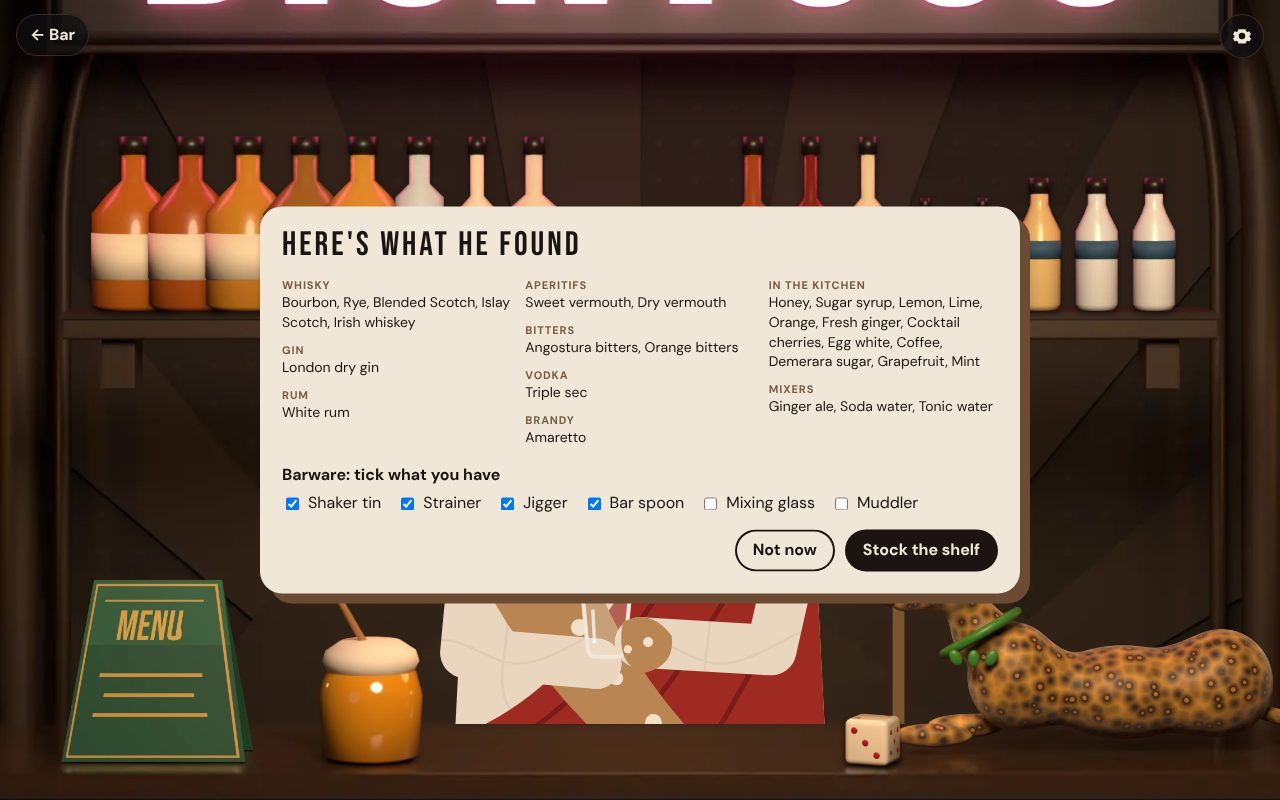
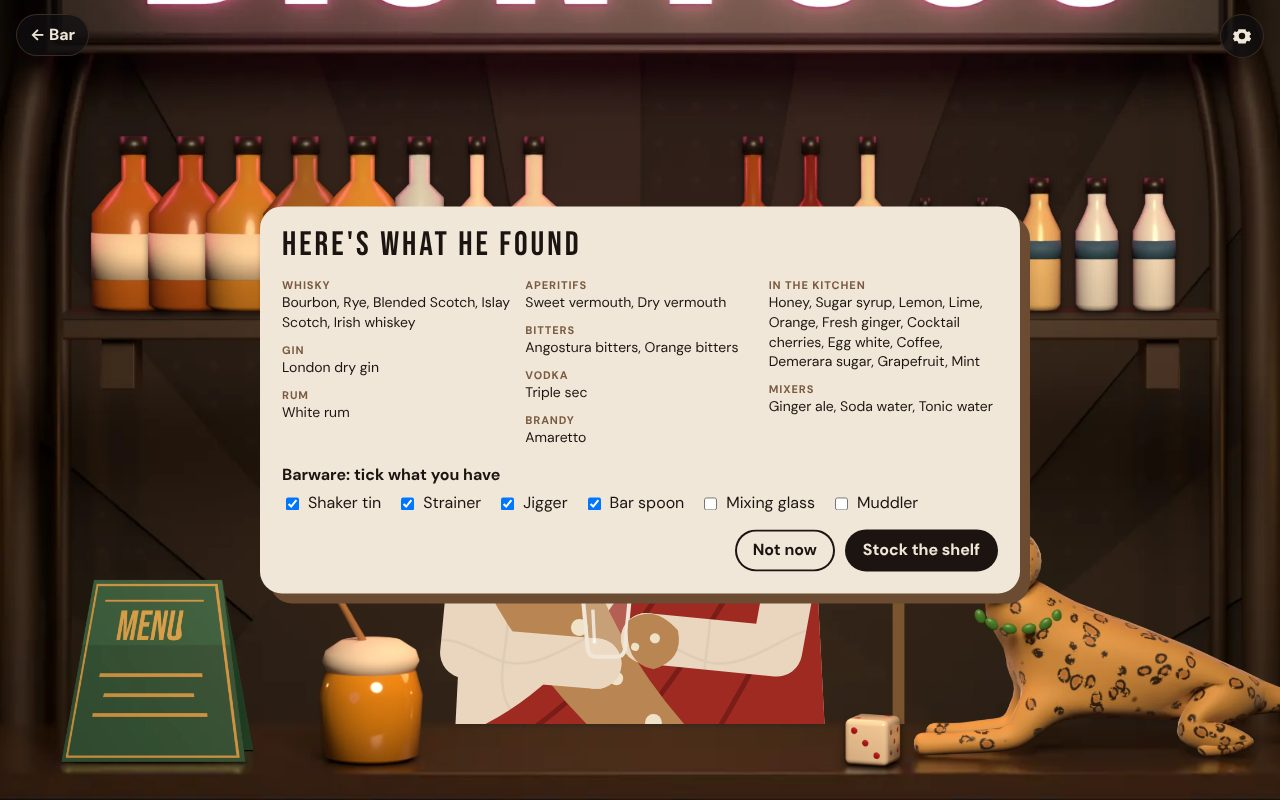
Prototype E: rebuild the panther from a skeleton
The metaball panther read as a lumpy blob with floating ears and a
collar hanging in mid-air. It is now a skin-modifier skeleton (spine,
neck, legs, tail) smoothed by subdivision, lying sphinx-style with its
head turned to the viewer, broken rosettes instead of polka dots and an
ivy collar on the neck. `--only panther` renders a large preview to
check it before it goes into the bar. Backgrounds re-rendered so the
counter shadow matches; phone framing shifted to keep the tail in frame.

Claude-Session: https://claude.ai/code/session_017R8H9jsNoJy3aWtoVCdhDN

diff --git a/prototypes/e-rendered/layers.js b/prototypes/e-rendered/layers.js
@@ -68,10 +68,10 @@ const LAYERS = {
   },
   "panther": {
    "src": "img/touch-panther.webp",
-   "x": 943.67,
-   "y": 513.5,
-   "w": 304.0,
-   "h": 131.33
+   "x": 961.57,
+   "y": 503.37,
+   "w": 306.0,
+   "h": 147.0
   }
  },
  "bottles": {
@@ -359,4 +359,4 @@ const LAYERS = {
   "quick": false
  }
 };
-const RENDER_LOG = [{"layer": "bg_bar", "px": [2000, 2000], "samples": 64, "seconds": 123.9}, {"layer": "bg_sign", "px": [1480, 460], "samples": 64, "seconds": 29.2}, {"layer": "bg_shelf", "px": [1672, 1065], "samples": 64, "seconds": 77.0}, {"layer": "bg_mid", "px": [2222, 1232], "samples": 64, "seconds": 106.6}, {"layer": "bg_menu", "px": [1380, 1080], "samples": 48, "seconds": 48.6}, {"layer": "bg_sign_off", "px": [1480, 460], "samples": 64, "seconds": 22.3}, {"layer": "t_menu", "px": [851, 835], "samples": 64, "seconds": 14.1}, {"layer": "t_honey", "px": [376, 547], "samples": 64, "seconds": 4.2}, {"layer": "t_dice", "px": [312, 302], "samples": 64, "seconds": 1.9}, {"layer": "t_panther", "px": [995, 485], "samples": 64, "seconds": 8.7}, {"layer": "b_bourbon", "px": [164, 303], "samples": 32, "seconds": 0.8}, {"layer": "b_rye", "px": [164, 303], "samples": 32, "seconds": 0.7}, {"layer": "b_blended_scotch", "px": [164, 303], "samples": 32, "seconds": 0.7}, {"layer": "b_islay_scotch", "px": [164, 303], "samples": 32, "seconds": 0.7}, {"layer": "b_irish_whiskey", "px": [164, 303], "samples": 32, "seconds": 0.7}, {"layer": "b_london_dry_gin", "px": [109, 301], "samples": 32, "seconds": 0.5}, {"layer": "b_white_rum", "px": [148, 302], "samples": 32, "seconds": 0.6}, {"layer": "b_tequila", "px": [126, 302], "samples": 32, "seconds": 0.6}, {"layer": "b_vodka", "px": [99, 301], "samples": 32, "seconds": 0.4}, {"layer": "b_cognac", "px": [168, 303], "samples": 32, "seconds": 0.6}, {"layer": "b_sweet_vermouth", "px": [120, 301], "samples": 32, "seconds": 0.5}, {"layer": "b_dry_vermouth", "px": [120, 301], "samples": 32, "seconds": 0.5}, {"layer": "b_campari", "px": [120, 301], "samples": 32, "seconds": 0.5}, {"layer": "b_aperol", "px": [120, 301], "samples": 32, "seconds": 0.5}, {"layer": "b_amaro_nonino", "px": [120, 301], "samples": 32, "seconds": 0.5}, {"layer": "b_triple_sec", "px": [99, 301], "samples": 32, "seconds": 0.4}, {"layer": "b_amaretto", "px": [168, 303], "samples": 32, "seconds": 0.7}, {"layer": "b_cherry_heering", "px": [168, 303], "samples": 32, "seconds": 0.7}, {"layer": "b_ginger_wine", "px": [120, 301], "samples": 32, "seconds": 0.5}, {"layer": "b_coffee_liqueur", "px": [148, 302], "samples": 32, "seconds": 0.6}, {"layer": "b_angostura_bitters", "px": [101, 206], "samples": 32, "seconds": 0.3}, {"layer": "b_orange_bitters", "px": [101, 206], "samples": 32, "seconds": 0.3}, {"layer": "b_ginger_ale", "px": [99, 237], "samples": 32, "seconds": 0.4}, {"layer": "b_ginger_beer", "px": [99, 237], "samples": 32, "seconds": 0.4}, {"layer": "b_soda_water", "px": [99, 237], "samples": 32, "seconds": 0.4}, {"layer": "b_tonic_water", "px": [99, 237], "samples": 32, "seconds": 0.4}];
+const RENDER_LOG = [{"layer": "b_bourbon", "px": [164, 303], "samples": 32, "seconds": 0.8}, {"layer": "b_rye", "px": [164, 303], "samples": 32, "seconds": 0.7}, {"layer": "b_blended_scotch", "px": [164, 303], "samples": 32, "seconds": 0.7}, {"layer": "b_islay_scotch", "px": [164, 303], "samples": 32, "seconds": 0.7}, {"layer": "b_irish_whiskey", "px": [164, 303], "samples": 32, "seconds": 0.7}, {"layer": "b_london_dry_gin", "px": [109, 301], "samples": 32, "seconds": 0.5}, {"layer": "b_white_rum", "px": [148, 302], "samples": 32, "seconds": 0.6}, {"layer": "b_tequila", "px": [126, 302], "samples": 32, "seconds": 0.6}, {"layer": "b_vodka", "px": [99, 301], "samples": 32, "seconds": 0.4}, {"layer": "b_cognac", "px": [168, 303], "samples": 32, "seconds": 0.6}, {"layer": "b_sweet_vermouth", "px": [120, 301], "samples": 32, "seconds": 0.5}, {"layer": "b_dry_vermouth", "px": [120, 301], "samples": 32, "seconds": 0.5}, {"layer": "b_campari", "px": [120, 301], "samples": 32, "seconds": 0.5}, {"layer": "b_aperol", "px": [120, 301], "samples": 32, "seconds": 0.5}, {"layer": "b_amaro_nonino", "px": [120, 301], "samples": 32, "seconds": 0.5}, {"layer": "b_triple_sec", "px": [99, 301], "samples": 32, "seconds": 0.4}, {"layer": "b_amaretto", "px": [168, 303], "samples": 32, "seconds": 0.7}, {"layer": "b_cherry_heering", "px": [168, 303], "samples": 32, "seconds": 0.7}, {"layer": "b_ginger_wine", "px": [120, 301], "samples": 32, "seconds": 0.5}, {"layer": "b_coffee_liqueur", "px": [148, 302], "samples": 32, "seconds": 0.6}, {"layer": "b_angostura_bitters", "px": [101, 206], "samples": 32, "seconds": 0.3}, {"layer": "b_orange_bitters", "px": [101, 206], "samples": 32, "seconds": 0.3}, {"layer": "b_ginger_ale", "px": [99, 237], "samples": 32, "seconds": 0.4}, {"layer": "b_ginger_beer", "px": [99, 237], "samples": 32, "seconds": 0.4}, {"layer": "b_soda_water", "px": [99, 237], "samples": 32, "seconds": 0.4}, {"layer": "b_tonic_water", "px": [99, 237], "samples": 32, "seconds": 0.4}, {"layer": "panther_preview", "px": [1731, 911], "samples": 48, "seconds": 20.0}, {"layer": "t_menu", "px": [851, 835], "samples": 64, "seconds": 13.1}, {"layer": "t_honey", "px": [376, 547], "samples": 64, "seconds": 4.1}, {"layer": "t_dice", "px": [312, 302], "samples": 64, "seconds": 1.8}, {"layer": "t_panther", "px": [1039, 547], "samples": 64, "seconds": 9.7}, {"layer": "bg_bar", "px": [2000, 2000], "samples": 64, "seconds": 121.8}, {"layer": "bg_sign", "px": [1480, 460], "samples": 64, "seconds": 29.0}, {"layer": "bg_shelf", "px": [1672, 1065], "samples": 64, "seconds": 75.2}, {"layer": "bg_mid", "px": [2222, 1232], "samples": 64, "seconds": 104.6}, {"layer": "bg_menu", "px": [1380, 1080], "samples": 48, "seconds": 46.7}, {"layer": "bg_sign_off", "px": [1480, 460], "samples": 64, "seconds": 20.5}];

diff --git a/prototypes/e-rendered/app.js b/prototypes/e-rendered/app.js
@@ -59,7 +59,7 @@ drawShelf();
 const MENU_R = LAYERS.touch.menu;
 const SHOTS = {
   intro: { L: [440, 40, 720, 200], P: [452, 40, 696, 200] },
-  home: { L: [160, 20, 1280, 800], P: [425, -60, 830, 1250] },
+  home: { L: [160, 20, 1280, 800], P: [446, -60, 830, 1250] },
   menu: { L: [MENU_R.x - 30, MENU_R.y - 14, MENU_R.w + 60, MENU_R.h + 28], P: [MENU_R.x - 8, MENU_R.y - 6, MENU_R.w + 16, MENU_R.h + 12] },
   shelf: { L: [420, 200, 760, 475], P: [440, 180, 720, 400] },
   talk: { L: [470, 300, 800, 430], P: [600, 300, 400, 420] },

diff --git a/prototypes/e-rendered/blender/build_bar.py b/prototypes/e-rendered/blender/build_bar.py
@@ -41,6 +41,7 @@ FONT = os.path.join(HERE, 'fonts', 'BebasNeue-Regular.ttf')
 args = sys.argv[1:]
 QUICK = '--quick' in args
 ONLY = args[args.index('--only') + 1] if '--only' in args else 'all'
+PREVIEW = ONLY == 'panther'
 os.makedirs(OUT, exist_ok=True); os.makedirs(WORK, exist_ok=True)
 
 # ---------------------------------------------------------------- camera and the world-unit mapping
@@ -373,31 +374,52 @@ M_TWINE = mat('twine', '#a3172a', 0.6)
 M_DIPPER = mat('dipper', '#b98552', 0.5)
 M_IVORY = mat('ivory', '#f3ead6', 0.25, coat=0.6)
 M_PIP = mat('pip', '#b3172a', 0.3)
-M_EYE = mat('eye', '#9be05a', 0.2, emit='#9be05a', emit_strength=3)
+M_EYE = mat('eye', '#b8d84a', 0.15, coat=1.0, emit='#a8c83a', emit_strength=0.8)
 M_NOSE = mat('nose', '#3a2a2e', 0.4)
 M_IVY = mat('ivy', '#3f8a34', 0.4)
 
 
-def leopard_material():
-    m = bpy.data.materials.new('leopard'); m.use_nodes = True
+def leopard_material(scale=7.0, name='leopard'):
+    """Gold coat with broken rosettes: rings from a distorted Voronoi, broken up by noise, darker gold inside."""
+    m = bpy.data.materials.new(name); m.use_nodes = True
     nt = m.node_tree; n = nt.nodes; L = nt.links
-    b = n['Principled BSDF']; b.inputs['Roughness'].default_value = 0.55
-    b.inputs['Sheen Weight'].default_value = 0.4
+    b = n['Principled BSDF']; b.inputs['Roughness'].default_value = 0.62
+    b.inputs['Sheen Weight'].default_value = 0.6; b.inputs['Sheen Roughness'].default_value = 0.4
     tc = n.new('ShaderNodeTexCoord')
-    vor = n.new('ShaderNodeTexVoronoi'); vor.inputs['Scale'].default_value = 13.0; vor.inputs['Randomness'].default_value = 0.8
-    L.new(tc.outputs['Object'], vor.inputs['Vector'])
-    ramp = n.new('ShaderNodeValToRGB'); cr = ramp.color_ramp
-    cr.elements[0].position = 0.0; cr.elements[0].color = srgb('#c27a22')
-    cr.elements[1].position = 0.17; cr.elements[1].color = srgb('#c27a22')
-    e = cr.elements.new(0.2); e.color = srgb('#2a170c')
-    e = cr.elements.new(0.26); e.color = srgb('#2a170c')
-    e = cr.elements.new(0.3); e.color = srgb('#e0a640')
-    cr.elements[-1].position = 1.0; cr.elements[-1].color = srgb('#e0a640')
-    L.new(vor.outputs['Distance'], ramp.inputs['Fac']); L.new(ramp.outputs['Color'], b.inputs['Base Color'])
+    warp = n.new('ShaderNodeTexNoise'); warp.inputs['Scale'].default_value = 3.0; warp.inputs['Detail'].default_value = 2.0
+    L.new(tc.outputs['Object'], warp.inputs['Vector'])
+    mixv = n.new('ShaderNodeMix'); mixv.data_type = 'VECTOR'; mixv.inputs['Factor'].default_value = 0.12
+    L.new(tc.outputs['Object'], mixv.inputs['A']); L.new(warp.outputs['Color'], mixv.inputs['B'])
+    vor = n.new('ShaderNodeTexVoronoi'); vor.inputs['Scale'].default_value = scale; vor.inputs['Randomness'].default_value = 1.0
+    L.new(mixv.outputs['Result'], vor.inputs['Vector'])
+    # ring: dark where the distance to the cell centre is between ~0.22 and ~0.34
+    r1 = n.new('ShaderNodeMapRange'); r1.inputs['From Min'].default_value = 0.18; r1.inputs['From Max'].default_value = 0.23
+    r2 = n.new('ShaderNodeMapRange'); r2.inputs['From Min'].default_value = 0.37; r2.inputs['From Max'].default_value = 0.31
+    L.new(vor.outputs['Distance'], r1.inputs['Value']); L.new(vor.outputs['Distance'], r2.inputs['Value'])
+    ring = n.new('ShaderNodeMath'); ring.operation = 'MINIMUM'
+    L.new(r1.outputs['Result'], ring.inputs[0]); L.new(r2.outputs['Result'], ring.inputs[1])
+    brk = n.new('ShaderNodeTexNoise'); brk.inputs['Scale'].default_value = scale * 4.5; brk.inputs['Detail'].default_value = 1.0
+    L.new(tc.outputs['Object'], brk.inputs['Vector'])
+    gate = n.new('ShaderNodeMapRange'); gate.inputs['From Min'].default_value = 0.36; gate.inputs['From Max'].default_value = 0.44
+    L.new(brk.outputs['Fac'], gate.inputs['Value'])
+    spots = n.new('ShaderNodeMath'); spots.operation = 'MULTIPLY'
+    L.new(ring.outputs[0], spots.inputs[0]); L.new(gate.outputs['Result'], spots.inputs[1])
+    inner = n.new('ShaderNodeMapRange'); inner.inputs['From Min'].default_value = 0.26; inner.inputs['From Max'].default_value = 0.12
+    L.new(vor.outputs['Distance'], inner.inputs['Value'])
+    base = n.new('ShaderNodeMix'); base.data_type = 'RGBA'
+    base.inputs['A'].default_value = srgb('#cf9f52'); base.inputs['B'].default_value = srgb('#b87a36')
+    L.new(inner.outputs['Result'], base.inputs['Factor'])
+    col = n.new('ShaderNodeMix'); col.data_type = 'RGBA'
+    L.new(base.outputs['Result'], col.inputs['A']); col.inputs['B'].default_value = srgb('#24140a')
+    L.new(spots.outputs[0], col.inputs['Factor'])
+    L.new(col.outputs['Result'], b.inputs['Base Color'])
     return m
 
 
-M_LEO = leopard_material()
+M_LEO = leopard_material(9.5)
+M_LEO_HEAD = leopard_material(16.0, 'leopard_head')
+M_MUZZLE = mat('muzzle', '#efd9b0', 0.6)
+M_EAR_IN = mat('ear_in', '#3a2414', 0.7)
 
 
 def menu_texture():
@@ -476,52 +498,77 @@ def dice():
     return [d] + pips
 
 
-def panther():
-    """Dionysus' panther, the spotted kind of the old mosaics, lying on the counter facing left."""
-    Y = -0.55; yb = surface_y(Y)
-    mb = bpy.data.metaballs.new('panther'); mb.resolution = 0.03; mb.render_resolution = 0.02; mb.threshold = 0.6
-    ob = bpy.data.objects.new('panther', mb); link(ob); mb.materials.append(M_LEO)
+def skin_body(name, verts, edges, radii, material, subdiv=2):
+    """An organic body from a skeleton: Skin modifier (radius per joint) smoothed by subdivision."""
+    me = bpy.data.meshes.new(name); me.from_pydata([tuple(v) for v in verts], edges, []); me.update()
+    ob = bpy.data.objects.new(name, me); link(ob); ob.data.materials.append(material)
+    sk = ob.modifiers.new('skin', 'SKIN'); sk.use_smooth_shade = True; sk.branch_smoothing = 1.0
+    sv = me.skin_vertices[0].data
+    for i, r in enumerate(radii):
+        sv[i].radius = r
+    sv[0].use_root = True
+    sd = ob.modifiers.new('subd', 'SUBSURF'); sd.levels = subdiv; sd.render_levels = subdiv
+    return ob
 
-    def ball(x, y, d, r, sx=1, sy=1, sz=1, kind='ELLIPSOID', rot=None):
-        e = mb.elements.new(type=kind); e.co = P(x, y, d); e.radius = r
-        e.size_x, e.size_y, e.size_z = sx, sy, sz
-        if rot: e.rotation = rot
-        return e
-    base = yb
-    ball(1088, base - 34, 0.04, 0.58, 1.45, 0.95, 0.82)            # body
-    ball(1146, base - 40, 0.02, 0.52, 1.0, 1.0, 1.05)             # haunch
-    ball(1022, base - 44, 0.0, 0.48, 1.0, 1.0, 1.15)              # chest
-    ball(1000, base - 72, -0.04, 0.27, 1.0, 1.0, 1.0)            # neck
-    ball(984, base - 100, -0.06, 0.37, 1.05, 0.95, 0.9)          # head, raised
-    ball(958, base - 92, -0.2, 0.17, 1.2, 0.9, 0.75)             # muzzle
-    ball(972, base - 12, -0.22, 0.15, 2.7, 0.9, 0.8)             # front legs, stretched forward
-    ball(992, base - 12, 0.14, 0.15, 2.4, 0.9, 0.8)
-    ob.location = (0, 0, 0)
-    parts = [ob]
-    for ex in (968, 1002):                                        # ears
-        bpy.ops.mesh.primitive_cone_add(radius1=0.07, depth=0.12, location=P(ex, base - 126, -0.06)); e = bpy.context.active_object
-        e.rotation_euler = (math.radians(-10), math.radians(-22 if ex < 984 else 22), 0); e.data.materials.append(M_LEO); parts.append(e)
-    for ex in (962, 986):                                         # green eyes
-        bpy.ops.mesh.primitive_uv_sphere_add(radius=0.03, location=P(ex, base - 106, -0.36)); e = bpy.context.active_object
-        e.scale = (1.3, 0.6, 0.7); e.data.materials.append(M_EYE); smooth(e); parts.append(e)
-    bpy.ops.mesh.primitive_uv_sphere_add(radius=0.026, location=P(946, base - 92, -0.36)); nz = bpy.context.active_object
-    nz.data.materials.append(M_NOSE); nz.scale = (1.3, 0.8, 0.8); smooth(nz); parts.append(nz)
-    # an ivy collar round the neck
-    bpy.ops.mesh.primitive_torus_add(major_radius=0.25, minor_radius=0.03, location=P(1002, base - 70, -0.04),
-                                     rotation=(math.radians(-8), math.radians(-30), 0)); col = bpy.context.active_object
-    col.data.materials.append(M_IVY); smooth(col); parts.append(col)
-    for k in range(3):
-        a = -0.5 + k * 0.5
-        bpy.ops.mesh.primitive_uv_sphere_add(radius=0.05, location=P(996 + 22 * math.sin(a), base - 62 + 4 * math.cos(a), -0.27)); lf = bpy.context.active_object
-        lf.scale = (0.7, 0.35, 1.0); lf.rotation_euler = (0, a, 0); lf.data.materials.append(M_IVY); smooth(lf); parts.append(lf)
-    # tail, along the counter and curling up at the end
-    tail = [P(1170, base - 22, 0.05), P(1204, base - 12, 0.02), P(1232, base - 20, 0.0), P(1244, base - 46, -0.03), P(1236, base - 72, -0.05), P(1220, base - 80, -0.06)]
-    t = curve_obj('tail', [tail], 0.045, M_LEO); sp = t.data.splines[0]; sp.type = 'NURBS'; sp.order_u = 3; sp.use_endpoint_u = True; t.data.resolution_u = 16
-    parts.append(t)
+
+def panther():
+    """Dionysus' panther: the spotted kind of the old mosaics, lying sphinx-style on the counter,
+    head turned to look at you. Built from a skeleton, not blobs."""
+    Y = -0.55; yb = surface_y(Y)
+    near, far = -0.2, 0.2                         # the two sides of the body, in depth
+    J = {   # joint: (x, y above the counter, depth)
+        'rump': (1166, 40, 0.0), 'back': (1110, 46, 0.0), 'chest': (1042, 48, 0.0), 'neck': (1024, 80, -0.07), 'nape': (1012, 100, -0.12),
+        'tail0': (1190, 30, 0.04), 'tail1': (1222, 12, 0.02), 'tail2': (1250, 14, -0.02), 'tail3': (1262, 36, -0.05), 'tail4': (1254, 60, -0.07), 'tail5': (1240, 66, -0.08),
+        'shN': (1036, 30, near), 'elN': (1020, 10, near - 0.02), 'wrN': (982, 7, near - 0.02), 'pawN': (960, 7, near - 0.02),
+        'shF': (1036, 30, far), 'elF': (1022, 10, far), 'wrF': (990, 7, far), 'pawF': (970, 7, far),
+        'hipN': (1146, 32, near * 0.55), 'knN': (1118, 14, near - 0.04), 'hkN': (1160, 8, near - 0.05), 'ftN': (1126, 6, near - 0.06),
+    }
+    names = list(J)
+    verts = [P(x, yb - h, d) for (x, h, d) in J.values()]
+    E = [('rump', 'back'), ('back', 'chest'), ('chest', 'neck'), ('neck', 'nape'), ('rump', 'tail0'), ('tail0', 'tail1'), ('tail1', 'tail2'), ('tail2', 'tail3'), ('tail3', 'tail4'), ('tail4', 'tail5'),
+         ('chest', 'shN'), ('shN', 'elN'), ('elN', 'wrN'), ('wrN', 'pawN'), ('chest', 'shF'), ('shF', 'elF'), ('elF', 'wrF'), ('wrF', 'pawF'),
+         ('rump', 'hipN'), ('hipN', 'knN'), ('knN', 'hkN'), ('hkN', 'ftN')]
+    edges = [(names.index(a_), names.index(b_)) for a_, b_ in E]
+    R_ = {'rump': (0.4, 0.37), 'back': (0.37, 0.35), 'chest': (0.42, 0.36), 'neck': (0.27, 0.26), 'nape': (0.24, 0.23),
+          'tail0': (0.07, 0.07), 'tail1': (0.06, 0.06), 'tail2': (0.055, 0.055), 'tail3': (0.05, 0.05), 'tail4': (0.045, 0.045), 'tail5': (0.05, 0.05),
+          'shN': (0.14, 0.13), 'elN': (0.08, 0.08), 'wrN': (0.065, 0.065), 'pawN': (0.08, 0.06),
+          'shF': (0.13, 0.12), 'elF': (0.075, 0.075), 'wrF': (0.06, 0.06), 'pawF': (0.075, 0.055),
+          'hipN': (0.3, 0.28), 'knN': (0.13, 0.12), 'hkN': (0.07, 0.07), 'ftN': (0.075, 0.055)}
+    body = skin_body('panther', verts, edges, [R_[k] for k in names], M_LEO)
+    parts = [body]
+    # the head, turned to the viewer: skull, muzzle, chin, nose, eyes, ears
+    hc = P(1008, yb - 114, -0.17)
+    def sph(name, loc, r, sc, m_, seg=32):
+        bpy.ops.mesh.primitive_uv_sphere_add(radius=r, location=loc, segments=seg, ring_count=seg // 2); o = bpy.context.active_object
+        o.name = name; o.scale = sc; o.data.materials.append(m_); smooth(o); parts.append(o); return o
+    sph('skull', hc, 0.26, (1.1, 0.95, 0.88), M_LEO_HEAD)
+    sph('cheekL', hc + Vector((-0.11, -0.1, -0.06)), 0.12, (1, 0.9, 0.85), M_LEO_HEAD)
+    sph('cheekR', hc + Vector((0.11, -0.1, -0.06)), 0.12, (1, 0.9, 0.85), M_LEO_HEAD)
+    sph('muzzle', hc + Vector((0, -0.19, -0.1)), 0.09, (1.25, 0.7, 0.62), M_MUZZLE)
+    sph('chin', hc + Vector((0, -0.15, -0.15)), 0.06, (1, 0.7, 0.6), M_MUZZLE)
+    nose = sph('nose', hc + Vector((0, -0.285, -0.05)), 0.04, (1.2, 0.7, 0.7), M_NOSE)
+    for sx in (-1, 1):
+        e = sph('eye', hc + Vector((sx * 0.095, -0.205, 0.04)), 0.042, (1.25, 0.55, 0.85), M_EYE)
+        e.rotation_euler = (0, sx * 0.25, 0)
+        sph('pupil', hc + Vector((sx * 0.095, -0.228, 0.04)), 0.014, (0.6, 0.4, 1.5), M_NOSE, 16)
+        bpy.ops.mesh.primitive_cone_add(radius1=0.085, radius2=0.012, depth=0.15, vertices=24,
+                                        location=hc + Vector((sx * 0.17, 0.02, 0.21)), rotation=(math.radians(-12), sx * math.radians(28), 0))
+        ear = bpy.context.active_object; ear.scale = (1, 0.45, 1); ear.data.materials.append(M_LEO_HEAD); smooth(ear); parts.append(ear)
+        bpy.ops.mesh.primitive_cone_add(radius1=0.055, radius2=0.008, depth=0.1, vertices=24,
+                                        location=hc + Vector((sx * 0.168, -0.02, 0.2)), rotation=(math.radians(-12), sx * math.radians(28), 0))
+        ei = bpy.context.active_object; ei.scale = (1, 0.3, 1); ei.data.materials.append(M_EAR_IN); smooth(ei); parts.append(ei)
+    # an ivy collar, lying on the neck and chest
+    for k in range(6):
+        a_ = math.pi * (0.12 + 0.76 * k / 5)
+        loc = P(1022 + 24 * math.cos(a_), yb - 86 + 10 * math.sin(a_), -0.36 + 0.12 * abs(math.cos(a_)))
+        bpy.ops.mesh.primitive_uv_sphere_add(radius=0.055, location=loc); lf = bpy.context.active_object
+        lf.scale = (0.8, 0.35, 0.55); lf.rotation_euler = (0, a_ + math.pi / 2, 0); lf.data.materials.append(M_IVY); smooth(lf); parts.append(lf)
     group('panthergrp', parts, Y)
     return parts
 
 
+if ONLY == 'panther':
+    T['panther'] = panther()
 if ONLY in ('all', 'bg', 'touch'):
     T['menu'] = menu(); T['honey'] = honey_jar(); T['dice'] = dice(); T['panther'] = panther()
 
@@ -759,6 +806,10 @@ if ONLY in ('all', 'bg'):
     M_NEON.node_tree.nodes['Principled BSDF'].inputs['Emission Strength'].default_value = 14
     NEON_WASH.data.energy = 60
 
+if PREVIEW:   # look at the panther large before it goes into the bar
+    reg = bbox_world(T['panther'], 14)
+    png = render_region('panther_preview', reg, 5.0, T['panther'], True, 48)
+    print('preview', png, reg)
 if ONLY in ('all', 'touch'):
     K = {'menu': 6.0, 'panther': 3.0, 'dice': 5.0, 'honey': 4.0}
     for name, parts in T.items():
